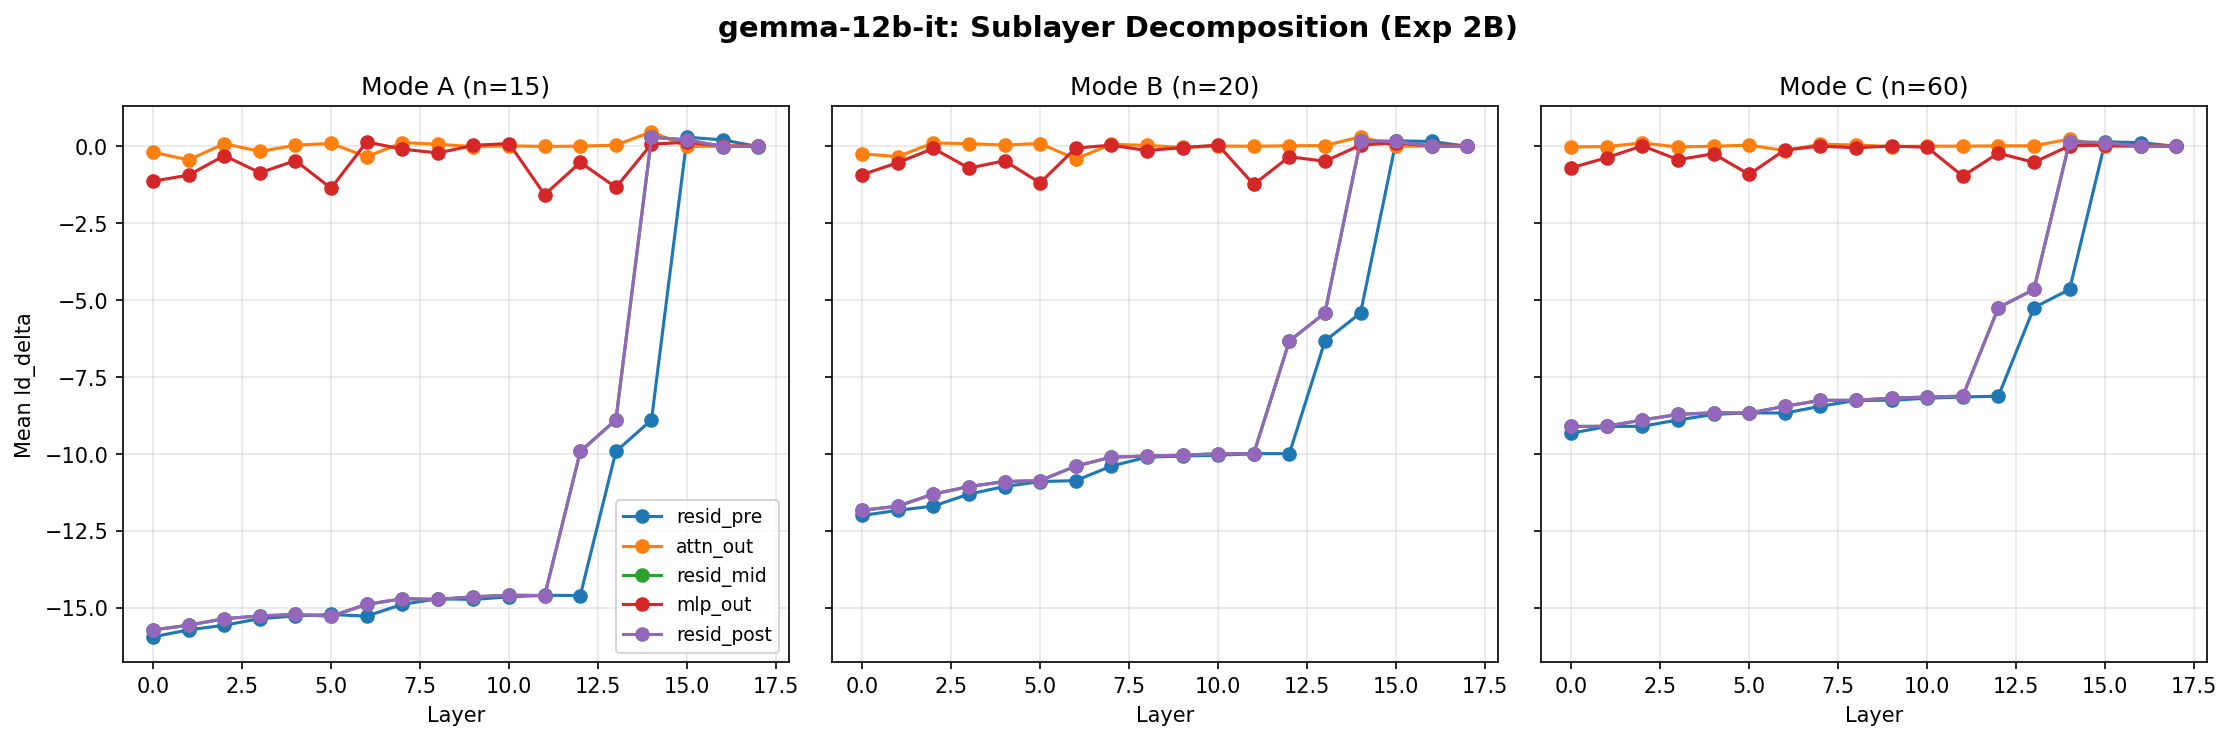
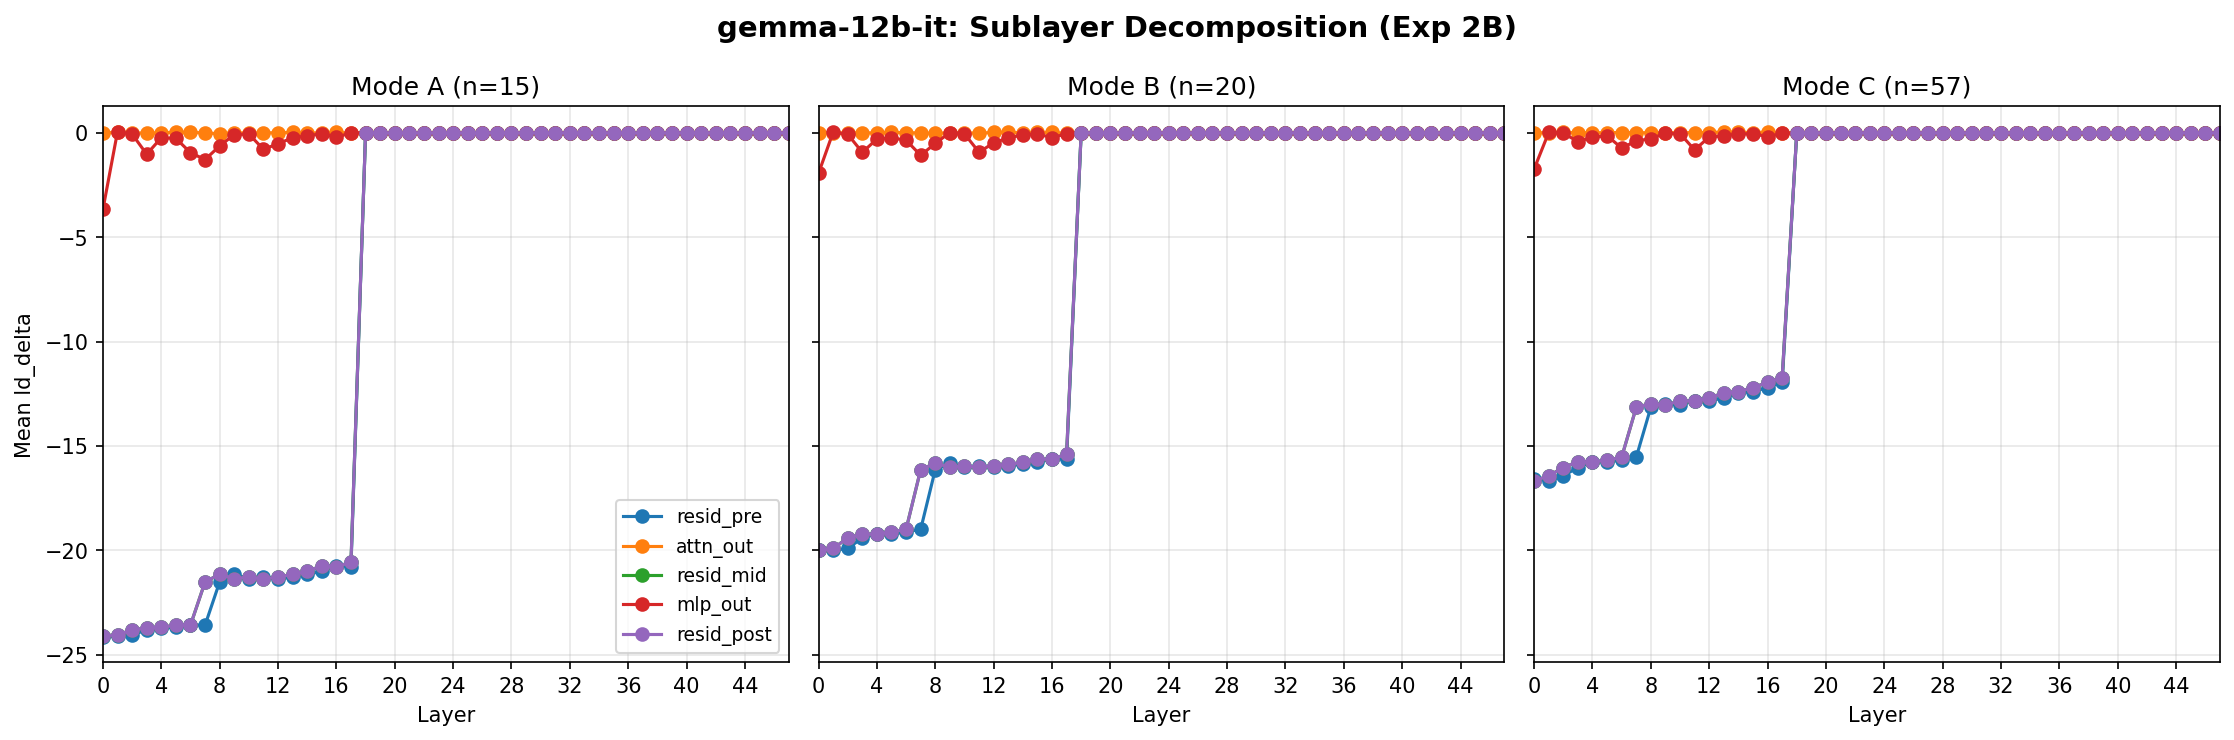
Correct figures for gemma2b and gemma12b

diff --git a/scripts/data_analysis/exp2b_exp3_exp4_analysis.py b/scripts/data_analysis/exp2b_exp3_exp4_analysis.py
@@ -7,33 +7,57 @@ and 4 (attention head routing).
 import argparse
 import json
 from pathlib import Path
-from typing import Any, Dict, List, Sequence
+from typing import Any, Dict, List, Optional, Sequence, Tuple
 
 import matplotlib.pyplot as plt
 import numpy as np
 
 
-def _load_json_files(mode: str, exp_name: str) -> List[Dict[str, Any]]:
-    """Load all JSON files for a given experiment and mode."""
+def _load_json_files(mode: str, exp_name: str, data_root: Optional[Path] = None) -> Tuple[List[Dict[str, Any]], Optional[int]]:
+    """Load all JSON files for a given experiment and mode.
+    
+    Returns tuple of (pairs list, n_layers) where n_layers comes from the JSON metadata.
+    """
     exp_prefix = {
         "2b": "experiment2b_",
         "3": "experiment3_",
         "4": "experiment4_",
     }[exp_name]
     
-    # Try both exp2b/ and exp2B/ naming conventions at repo root
-    for dir_variant in [f"exp{exp_name}", f"exp{exp_name.upper()}"]:
-        json_file = Path(dir_variant) / mode.upper() / f"{exp_prefix}{mode.upper()}.json"
-        if json_file.exists():
-            with open(json_file) as f:
-                data = json.load(f)
-            return data.get("pairs", [])
+    # Determine which directory structure to use
+    if data_root:
+        # Use model-specific structure (e.g., gemma-12b-it/phase{N}/{MODE}/)
+        if exp_name == "2b":
+            json_file = data_root / "phase2" / mode.upper() / "exp2b" / f"{exp_prefix}{mode.upper()}.json"
+        else:
+            json_file = data_root / f"phase{exp_name}" / mode.upper() / f"{exp_prefix}{mode.upper()}.json"
+    else:
+        # Use root-level structure (e.g., exp2b/{MODE}/, exp3/{MODE}/)
+        for dir_variant in [f"exp{exp_name}", f"exp{exp_name.upper()}"]:
+            json_file = Path(dir_variant) / mode.upper() / f"{exp_prefix}{mode.upper()}.json"
+            if json_file.exists():
+                with open(json_file) as f:
+                    data = json.load(f)
+                n_layers = data.get("n_layers")
+                return data.get("pairs", []), n_layers
+        return [], None
     
-    return []
+    if json_file.exists():
+        with open(json_file) as f:
+            data = json.load(f)
+        n_layers = data.get("n_layers")
+        return data.get("pairs", []), n_layers
+    
+    return [], None
 
 
-def _plot_exp2b_sublayer(rows_by_mode: Dict[str, List[Dict[str, Any]]], 
-                         modes: Sequence[str], output_path: Path, model_name: str) -> None:
+def _plot_exp2b_sublayer(
+    rows_by_mode: Dict[str, List[Dict[str, Any]]],
+    modes: Sequence[str],
+    output_path: Path,
+    model_name: str,
+    n_layers: Optional[int] = None,
+) -> None:
     """Plot sublayer decomposition (resid_pre, attn_out, resid_mid, mlp_out, resid_post)."""
     fig, axes = plt.subplots(1, len(modes), figsize=(15, 5), sharey=True)
     if len(modes) == 1:
@@ -46,10 +70,15 @@ def _plot_exp2b_sublayer(rows_by_mode: Dict[str, List[Dict[str, Any]]],
         if not rows:
             continue
         
-        n_layers = max(int(layer) for row in rows for layer in row.get("results_by_layer", {}).keys()) + 1
+        if n_layers is None:
+            n_layers_to_use = max(
+                int(layer) for row in rows for layer in row.get("results_by_layer", {}).keys()
+            ) + 1
+        else:
+            n_layers_to_use = n_layers
         hook_deltas = {hook: [] for hook in hooks}
         
-        for layer in range(n_layers):
+        for layer in range(n_layers_to_use):
             layer_str = str(layer)
             for hook in hooks:
                 hook_key = f"hook_{hook}"
@@ -60,12 +89,14 @@ def _plot_exp2b_sublayer(rows_by_mode: Dict[str, List[Dict[str, Any]]],
                         deltas.append(results[hook_key].get("ld_delta", 0))
                 hook_deltas[hook].append(np.mean(deltas) if deltas else 0)
         
-        layers = np.arange(n_layers)
+        layers = np.arange(n_layers_to_use)
         colors = {"resid_pre": "C0", "attn_out": "C1", "resid_mid": "C2", "mlp_out": "C3", "resid_post": "C4"}
         for hook in hooks:
             ax.plot(layers, hook_deltas[hook], marker="o", label=hook, color=colors[hook])
         
         ax.set_xlabel("Layer")
+        ax.set_xlim(0, n_layers_to_use - 1)
+        ax.set_xticks(np.arange(0, n_layers_to_use, 4))
         if mode == modes[0]:
             ax.set_ylabel("Mean ld_delta")
         ax.set_title(f"Mode {mode.upper()} (n={len(rows)})")
@@ -81,7 +112,8 @@ def _plot_exp2b_sublayer(rows_by_mode: Dict[str, List[Dict[str, Any]]],
 
 
 def _plot_exp3_entity(rows_by_mode: Dict[str, List[Dict[str, Any]]], 
-                      modes: Sequence[str], output_path: Path, model_name: str) -> None:
+                      modes: Sequence[str], output_path: Path, model_name: str,
+                      n_layers: Optional[int] = None) -> None:
     """Plot entity token activation across layers."""
     fig, axes = plt.subplots(1, len(modes), figsize=(15, 5), sharey=True)
     if len(modes) == 1:
@@ -92,18 +124,36 @@ def _plot_exp3_entity(rows_by_mode: Dict[str, List[Dict[str, Any]]],
         if not rows:
             continue
         
-        n_layers = 18
-        entity_activations = []
+        # Dynamically determine n_layers from data if not provided
+        if n_layers is None:
+            max_layer = max(
+                max(int(k) for k in row.get("results_by_layer", {}).keys()) 
+                for row in rows
+            )
+            n_layers_to_use = max_layer + 1
+        else:
+            n_layers_to_use = n_layers
         
+        entity_activations = []
+
         for row in rows:
-            layer_damages = []
-            for layer in range(n_layers):
-                ld_delta = row.get("results_by_layer", {}).get(str(layer), {}).get("ld_delta", 0)
-                layer_damages.append(ld_delta)
+            # Exp3 JSON stores canonical per-layer deltas as an array.
+            # Keep a fallback to nested maps for older/alternate schemas.
+            ld_deltas_array = row.get("ld_delta_vs_clean_baseline_by_layer")
+            if isinstance(ld_deltas_array, list):
+                layer_damages = [
+                    float(ld_deltas_array[layer]) if layer < len(ld_deltas_array) else 0.0
+                    for layer in range(n_layers_to_use)
+                ]
+            else:
+                layer_damages = []
+                for layer in range(n_layers_to_use):
+                    ld_delta = row.get("results_by_layer", {}).get(str(layer), {}).get("ld_delta", 0)
+                    layer_damages.append(ld_delta)
             entity_activations.append(layer_damages)
         
         entity_mean = np.mean(entity_activations, axis=0)
-        layers = np.arange(n_layers)
+        layers = np.arange(n_layers_to_use)
         
         ax.plot(layers, entity_mean, marker="o", linewidth=2, markersize=6, color="C0")
         ax.set_xlabel("Layer")
@@ -170,9 +220,15 @@ def _plot_exp4_head_heatmap(rows_by_mode: Dict[str, List[Dict[str, Any]]],
 def main():
     parser = argparse.ArgumentParser()
     parser.add_argument("--model-name", default="gemma-2b", help="Model name for output directory")
+    parser.add_argument(
+        "--data-root",
+        type=Path,
+        default=None,
+        help="Optional root directory containing phase*/MODE JSON files",
+    )
     args = parser.parse_args()
     
-    output_base = Path("scripts/data_analysis/outputs") / args.model_name
+    output_base = Path(args.model_name) / "figures"
     output_base.mkdir(parents=True, exist_ok=True)
     
     modes = ["A", "B", "C"]
@@ -181,10 +237,13 @@ def main():
     for exp_name in ["2b", "3", "4"]:
         print(f"\n=== Loading Experiment {exp_name.upper()} ===")
         rows_by_mode = {}
+        exp_n_layers: Optional[int] = None
         for mode in modes:
-            rows = _load_json_files(mode.lower(), exp_name)
+            rows, n_layers = _load_json_files(mode.lower(), exp_name, args.data_root)
             if rows:
                 rows_by_mode[mode] = rows
+                if n_layers is not None:
+                    exp_n_layers = n_layers
                 print(f"Mode {mode}: {len(rows)} pairs")
         
         if not rows_by_mode:
@@ -193,9 +252,21 @@ def main():
         
         # Generate figures
         if exp_name == "2b":
-            _plot_exp2b_sublayer(rows_by_mode, list(rows_by_mode.keys()), output_base, args.model_name)
+            _plot_exp2b_sublayer(
+                rows_by_mode,
+                list(rows_by_mode.keys()),
+                output_base,
+                args.model_name,
+                n_layers=exp_n_layers,
+            )
         elif exp_name == "3":
-            _plot_exp3_entity(rows_by_mode, list(rows_by_mode.keys()), output_base, args.model_name)
+            _plot_exp3_entity(
+                rows_by_mode,
+                list(rows_by_mode.keys()),
+                output_base,
+                args.model_name,
+                n_layers=exp_n_layers,
+            )
         elif exp_name == "4":
             _plot_exp4_head_heatmap(rows_by_mode, list(rows_by_mode.keys()), output_base, args.model_name)
     
